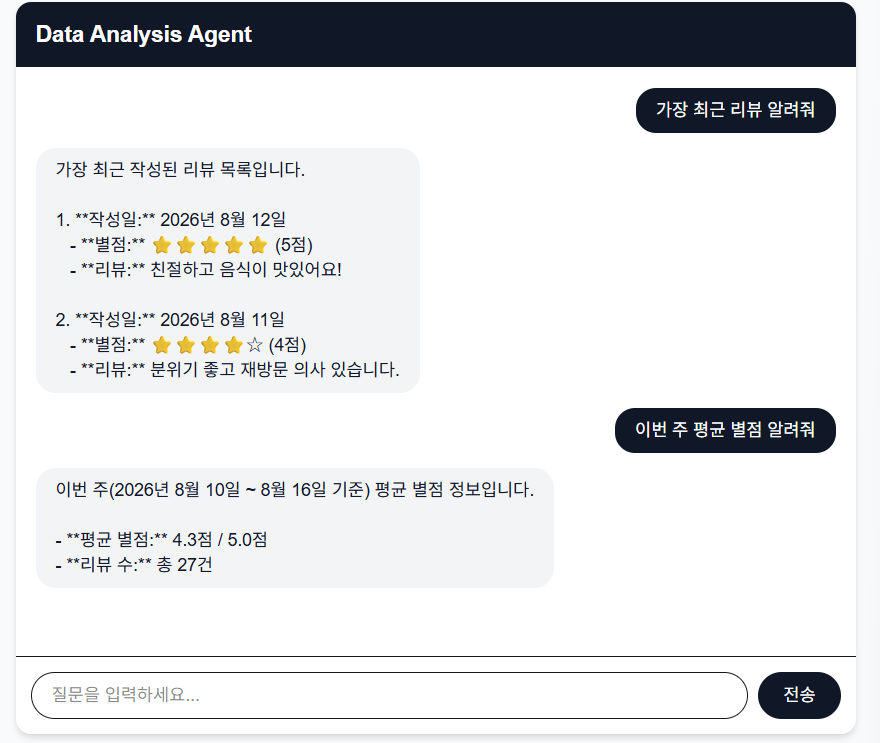
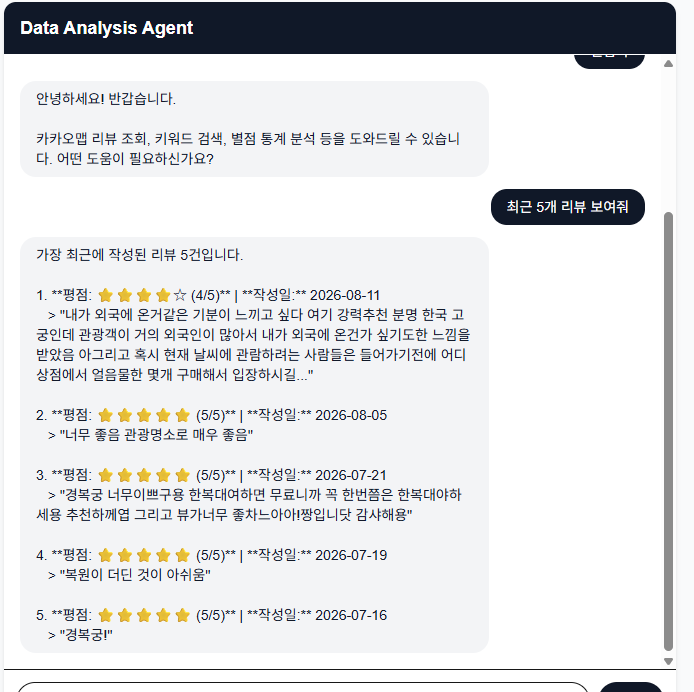
final

diff --git a/README.md b/README.md
@@ -343,115 +343,206 @@ https://hub.docker.com/r/seoo0/ybigta-backend
 
 # AI Agent
 
-## 1. 데이터 파이프라인
+## 1. Architecture
 
-### 1. 데이터 수집
+![Architecture Diagram](aws/architecture.png)
 
-- 데이터: 카카오맵 경복궁 리뷰 (https://place.map.kakao.com/18619553#review)
-- 저장 컬럼: `rating`(별점), `review_date`(작성일, `YYYY-MM-DD`), `review`(리뷰 내용), `review_length`(리뷰 글자 수)
-- 시간 정보: `created_at`(최초 저장 시각), `updated_at`(마지막 수정 시각), `collected_at`(마지막으로 수집기가 이 리뷰를 확인한 시각)
+전체 시스템은 **KakaoMap → AWS Data Collector → RDS → MCP Server → Next.js/Vercel Agent → 사용자** 흐름으로 구성했습니다.
 
-### 2. 수집 간격
+- **데이터 수집:** KakaoMap → EC2 Data Collector → RDS MySQL (`INSERT / UPDATE`)
+- **Agent 질의:** 사용자 Browser → Vercel Next.js Agent → Nginx → MCP Server → RDS (`SELECT`)
+- **응답:** RDS → MCP Server → Next.js Agent(Gemini) → 사용자 Browser
 
-- **30분 간격**으로 자동 수집
-- 매 실행마다 최신 리뷰 최대 50개를 확인하며, 이미 저장된 리뷰(rating+날짜+내용 해시로 판별)는 새로 추가하지 않고 `collected_at`만 갱신. 새 리뷰만 새 행으로 추가
-- 최초 1회는 과거 리뷰까지 폭넓게 확보하기 위해 약 300여 개를 수동으로 수집.
+AWS VPC의 **Public Subnet**에는 Collector와 Docker 기반 MCP Server가 실행되는 EC2가 있으며, **Private Subnet**에는 RDS MySQL을 배치했습니다.  
+RDS는 `Publicly accessible = No`로 설정하여 외부 인터넷, Browser, Vercel에서 직접 접근할 수 없습니다. RDS Security Group의 MySQL 포트 `3306`은 EC2가 사용하는 Security Group에서 오는 요청만 허용합니다.
 
-### 3. AWS 기능
+![RDS Private 설정](aws/rds_private.png)
 
-- **EC2**(Amazon Linux 2023, t3.small): `collector/` 코드를 systemd timer로 30분마다 자동 실행
-- **RDS(MySQL)**: 수집한 데이터 저장소, Private Subnet에 위치, Public Access 비활성화
+![Security Group 설정](aws/security_group.png)
 
-### 자동 갱신 증빙자료
+---
 
-같은 EC2에서 자동으로 데이터가 수집되고 갱신된 것을 보여주는 캡처(16:26은 최초 데이터 저장 시각)
+## 2. Data Pipeline & DB
 
-- ![자동 갱신 증빙](aws/data_update.png) 
+수집 대상은 **카카오맵 경복궁 리뷰**이며, 별점, 작성일, 리뷰 본문과 리뷰 길이 등의 정보를 저장합니다.
 
-30분동안 새로운 리뷰가 없어서 리뷰 건수는 같다.
+EC2의 `collector/deploy/kakao-collector.timer`를 이용해 Collector를 **30분마다 자동 실행**합니다. 수집된 리뷰는 `rating + review_date + review`를 기준으로 생성한 SHA-256 해시로 중복을 식별합니다.
 
-## 2. DB / VPC 구조
+- 신규 리뷰: RDS에 새 행 추가
+- 기존 리뷰: 중복 저장하지 않고 `collected_at` 갱신
 
-```
-VPC (agent-vpc)
-├── Public Subnet
-│   └── EC2 (Security Group: mcp-sg) — collector 실행 + (추후) MCP Server
-└── Private Subnet
-    └── RDS MySQL: agentdb / reviewdb (Security Group: rds-sg)
-```
+![Collector 자동 갱신](aws/data_update.png)
 
-- RDS는 **Public Access 비활성화** 상태로 Private Subnet에 위치해, 외부 인터넷에서 직접 접근 불가능
-- RDS Security Group(`rds-sg`)의 인바운드는 `3306 ← mcp-sg`로만 허용해, `mcp-sg`가 붙은 EC2를 통해서만 접근 가능
-- DB 계정을 역할별로 분리
-  - `collector_user`: `kakao_reviews` 테이블에 대해 SELECT/INSERT/UPDATE만 가능 (수집기 전용)
-  - `mcp_user`: DB 전체에 대해 SELECT만 가능 (MCP 서버 전용, read-only)
-- 테이블/계정 정의는 [`collector/schema.sql`](collector/schema.sql)에서 확인 가능
+### DB Schema
 
-## 3. MCP
+RDS의 `reviewdb.kakao_reviews` 테이블은 다음과 같이 구성했습니다.
 
-AWS EC2에 MCP 서버를 배포하고, Agent가 RDS에 저장된 리뷰 데이터를 안전하게 조회할 수 있도록 3개의 Tool을 구현했습니다.
+| 컬럼 | 역할 |
+| --- | --- |
+| `id` | 자동 증가 Primary Key |
+| `rating` | 별점 |
+| `review_date` | 리뷰 작성일 |
+| `review` | 리뷰 본문 |
+| `review_length` | 리뷰 글자 수 |
+| `review_hash` | 중복 방지용 UNIQUE SHA-256 해시 |
+| `created_at` | 최초 저장 시각 |
+| `updated_at` | 마지막 수정 시각 |
+| `collected_at` | Collector가 마지막으로 확인한 시각 |
 
-| Tool 이름 | 설명 | 파라미터 |
+DB 계정은 최소 권한 원칙에 따라 역할별로 분리했습니다.
+
+| 계정 | 권한 | 용도 |
 | --- | --- | --- |
-| `get_latest_reviews` | 가장 최근 작성된 리뷰 목록 조회 | `limit` (선택) |
-| `search_reviews` | 키워드 기반 리뷰 검색 (기간 필터 가능) | `keyword` (필수), `start_date`, `end_date`, `limit` (선택) |
-| `aggregate_ratings` | 특정 기간의 평균 별점 및 리뷰 개수 집계 | `start_date`, `end_date` (필수) |
+| `collector_user` | SELECT / INSERT / UPDATE | Collector 전용 |
+| `mcp_user` | SELECT only | MCP Server 전용 |
 
-MCP 서버는 Docker 컨테이너로 EC2에서 실행되며, 각 Tool은 Service 및 Repository 계층을 통해 RDS의 리뷰 데이터를 조회합니다.
+자세한 DDL과 권한 설정은 [`collector/schema.sql`](collector/schema.sql)에서 확인할 수 있습니다.
 
-Raw SQL을 직접 입력받아 실행하는 Tool은 제공하지 않으며, 각 Tool이 허용된 파라미터만 입력받도록 구성하여 임의 SQL 실행을 방지했습니다.
+---
 
-MCP Inspector를 이용해 3개의 Tool이 정상적으로 등록되는 것을 확인했으며, 실제 Tool 호출을 통해 RDS의 리뷰 데이터가 반환되는 것까지 검증했습니다.
+## 3. MCP Server
 
+Agent가 RDS 데이터를 안전하게 조회할 수 있도록 AWS EC2에 MCP Server를 배포했습니다.
 
-## 4. MCP 보안
+### MCP Tools
 
-MCP 서버는 외부에서 직접 DB에 접근하지 않고, EC2에 배포된 MCP 서버를 통해서만 RDS의 데이터를 조회하도록 구성했습니다.
+| Tool | 역할 | 주요 파라미터 |
+| --- | --- | --- |
+| `get_latest_reviews` | 최신 리뷰 목록 조회 | `limit` |
+| `search_reviews` | 키워드 및 기간 기반 리뷰 검색 | `keyword`, `start_date`, `end_date`, `limit` |
+| `aggregate_ratings` | 기간별 리뷰 수 및 별점 통계 집계 | `start_date`, `end_date` |
 
-- MCP 요청에 `Authorization: Bearer <MCP_AUTH_TOKEN>` 인증을 적용했습니다.
-- MCP가 사용하는 DB 계정인 `mcp_user`는 조회 전용(read-only) 권한만 사용합니다.
-- RDS는 Private Subnet에 위치하며, 외부 인터넷에서 DB 포트로 직접 접근할 수 없도록 구성했습니다.
-- MCP 애플리케이션의 `8000` 포트는 EC2 내부의 `127.0.0.1`에만 바인딩했습니다.
-- 외부 요청은 Nginx Reverse Proxy의 `80` 포트를 통해 MCP 서버로 전달되도록 구성했습니다.
-- DB 비밀번호와 MCP 인증 토큰 등의 민감한 정보는 `.env` 파일로 관리하며 GitHub 및 Docker 이미지에 포함되지 않도록 설정했습니다.
+Raw SQL을 직접 입력받아 실행하는 Tool은 제공하지 않습니다. Agent가 실행할 수 있는 기능을 미리 정의된 Tool로 제한해 임의 SQL 실행, 데이터 수정·삭제, 과도한 조회를 방지했습니다.
 
-## 5. Data Analysis Agent
+### MCP 구조
 
-Vercel + Next.js로 구현한 채팅 기반 Agent입니다. 사용자가 자연어로 질문하면, Agent가 MCP Tool을 스스로 선택해 호출하고 그 결과를 바탕으로 답변을 생성합니다.
-
-### 구조
-사용자 질문
-↓
-Agent (Google Gemini, Function Calling)
-↓
-MCP Tool 선택 (get_latest_reviews / search_reviews / aggregate_ratings)
-↓
-MCP Server 호출
-↓
-DB (kakao_reviews) 조회
-↓
-MCP Result → Agent
-↓
-Agent가 결과를 바탕으로 자연어 답변 생성
-
-Gemini의 Function Calling 기능을 사용해 사용자의 질문 의도를 분석하고, 필요한 MCP Tool을 스스로 선택해 호출합니다. 하나의 질문에 여러 번의 Tool 호출이 필요한 경우(예: 최신 데이터 확인 후 집계 계산)에도 최대 5턴까지 반복 호출을 지원하도록 구현했습니다.
-
-### 보안
-
-- LLM API Key(`GEMINI_API_KEY`), MCP 인증 토큰(`MCP_AUTH_TOKEN`) 등은 모두 서버 사이드(`app/api/chat/route.ts`)에서만 사용하며, `NEXT_PUBLIC_` 접두사를 사용하지 않아 Client Bundle에 노출되지 않습니다.
-- 브라우저(Client Component)는 MCP 서버 주소나 인증 토큰을 전혀 알지 못하며, MCP 호출은 반드시 Next.js 서버를 거칩니다.
-
-### 실행 방법
-
-```bash
-cd web
-npm install
-npm run dev
+```text
+Tool
+ ↓
+Service
+ ↓
+Repository
+ ↓
+RDS
 ```
 
-`http://localhost:3000` 에서 확인 가능합니다.
+- **Tool:** Agent가 사용할 기능과 입력 스키마 정의
+- **Service:** 입력 검증과 조회 정책 처리
+- **Repository:** DB 연결 및 SQL Query 실행
 
-환경변수는 `web/.env.example` 참고:
+이렇게 계층을 분리하면 Tool 인터페이스를 유지하면서 DB 접근 방식이나 검색 구현을 변경하기 쉽고, 각 계층을 독립적으로 관리할 수 있습니다.
+
+새 Tool은 다음 순서로 확장할 수 있습니다.
+
+```text
+1. mcp_server/tools/ 에 Tool 추가
+2. Service에 입력 검증 및 처리 로직 추가
+3. Repository에 필요한 DB Query 추가
+4. server.py에서 Tool 등록
+```
+
+### 입력 검증 및 Query 제한
+
+MCP Server에는 다음 안전장치를 적용했습니다.
+
+- 조회 결과 `limit`: 1~20
+- 검색어 최대 100자
+- 날짜 형식 `YYYY-MM-DD` 검증
+- `start_date <= end_date` 검증
+- 허용된 컬럼과 필터만 사용
+- 사용자 입력값은 parameterized query의 `%s` 파라미터로 전달
+- DB 연결 및 Query timeout 적용
+- read-only `mcp_user` 사용
+- Raw SQL 입력 불가
+
+### MCP Inspector 증빙
+
+MCP Inspector를 통해 3개의 Tool이 정상 등록된 것을 확인했습니다.
+
+![MCP Inspector Tool 목록](aws/mcp_tools.png)
+
+실제 Tool 호출을 통해 RDS의 리뷰 데이터가 반환되는 것도 확인했습니다.
+
+![MCP Inspector Tool 호출](aws/mcp_call.png)
+
+---
+
+## 4. MCP 배포 및 보안
+
+MCP Server는 `mcp_server/Dockerfile`을 이용해 Docker 이미지로 빌드한 뒤 EC2에서 실행합니다.
+
+MCP 애플리케이션은 내부적으로 `8000` 포트를 사용하지만 인터넷에 직접 노출하지 않고, Docker의 host publish를 `127.0.0.1:8000:8000`으로 제한했습니다. 외부 요청은 Nginx의 `80` 포트를 통해 MCP Server로 전달됩니다.
+
+```text
+Internet
+   ↓
+Nginx :80
+   ↓
+127.0.0.1:8000
+   ↓
+MCP Server (Docker)
+```
+
+MCP 요청에는 Bearer Token 인증을 적용했습니다.
+
+```text
+Authorization: Bearer <MCP_AUTH_TOKEN>
+```
+
+또한 다음 민감 정보는 코드에 직접 작성하지 않고 환경변수로 관리합니다.
+
+```text
+GEMINI_API_KEY
+MCP_AUTH_TOKEN
+MCP_DB_PASSWORD
+DB Credential
+```
+
+`.env`, `*.pem` 등 민감 파일은 Git에 포함하지 않으며, 실제 Secret 값은 README에도 기록하지 않습니다.
+
+---
+
+## 5. Next.js Data Analysis Agent
+
+Frontend와 Agent는 Next.js로 구현하고 Vercel에 배포했습니다.
+
+Browser는 DB나 MCP Server를 직접 호출하지 않고 Next.js의 `POST /api/chat`만 호출합니다. Next.js Server Route Handler가 Gemini에 Tool 정보를 전달하고, Gemini Function Calling 결과에 따라 필요한 MCP Tool을 선택해 호출합니다.
+
+```text
+사용자 질문
+ ↓
+Browser
+ ↓
+Next.js Server (/api/chat)
+ ↓
+Gemini Function Calling
+ ↓
+MCP Tool 선택
+ ↓
+MCP Server
+ ↓
+RDS
+ ↓
+MCP Result
+ ↓
+Gemini
+ ↓
+최종 자연어 답변
+```
+
+데이터 조회는 반드시 다음 경로를 거칩니다.
+
+```text
+Browser → Next.js Server → MCP Server → RDS
+```
+
+따라서 Browser나 Vercel Frontend가 RDS에 직접 접근하지 않습니다.
+
+Gemini가 여러 Tool 호출이 필요하다고 판단하는 경우에도 무한 호출을 방지하기 위해 최대 호출 횟수를 제한했습니다.
+
+### 환경변수
+
+Vercel Server Side에서는 다음 환경변수를 사용합니다.
 
 ```env
 GEMINI_API_KEY=
@@ -459,18 +550,76 @@ MCP_SERVER_URL=
 MCP_AUTH_TOKEN=
 ```
 
-## 6. Agent 동작 확인
+Secret 값에는 `NEXT_PUBLIC_` 접두사를 사용하지 않아 Client Bundle에 노출되지 않도록 했습니다.
 
-### 단순 조회
+---
 
-> 질문: "가장 최근 리뷰 알려줘"
-> → `get_latest_reviews` Tool 호출 → 최근 리뷰 목록을 바탕으로 답변 생성
+## 6. Agent 동작 증빙
 
-### 분석/집계
+### 6.1 단순 조회
 
-> 질문: "이번 주 평균 별점 알려줘"
-> → `aggregate_ratings(start_date, end_date)` Tool 호출 → 평균 별점과 리뷰 건수를 바탕으로 답변 생성
+사용자가 최신 리뷰를 요청하면 Gemini가 `get_latest_reviews`를 선택하고 MCP Server를 통해 RDS의 실제 리뷰 데이터를 조회한 뒤 자연어로 정리합니다.
 
-(스크린샷: `aws/agent_query.png`, `aws/agent_analysis.png`)
+```text
+사용자 질문
+→ get_latest_reviews
+→ MCP Server
+→ RDS 최신 리뷰 조회
+→ Tool Result
+→ Gemini 최종 답변
+```
 
+![Agent 단순 조회](aws/agent_query.png)
 
+### 6.2 분석 / 집계
+
+기간별 평균 별점 등의 질문에서는 Gemini가 `aggregate_ratings`를 호출해 RDS의 리뷰를 집계하고 결과를 설명합니다.
+
+```text
+사용자 질문
+→ aggregate_ratings(start_date, end_date)
+→ MCP Server
+→ RDS 집계 Query
+→ 리뷰 개수 / 평균 별점 등 반환
+→ Gemini 최종 답변
+```
+
+![Agent 분석 및 집계](aws/agent_analysis.png)
+
+---
+
+## 7. 실행 방법
+
+### MCP Server
+
+```bash
+cd mcp_server
+pip install -r requirements.txt
+python server.py
+```
+
+Docker 실행:
+
+```bash
+docker build -t ybigta-mcp ./mcp_server
+
+docker run -d \
+  --name ybigta-mcp \
+  --env-file mcp_server/.env \
+  -p 127.0.0.1:8000:8000 \
+  ybigta-mcp
+```
+
+### Next.js Agent
+
+```bash
+cd web
+npm install
+npm run dev
+```
+
+로컬 실행 주소:
+
+```text
+http://localhost:3000
+```
